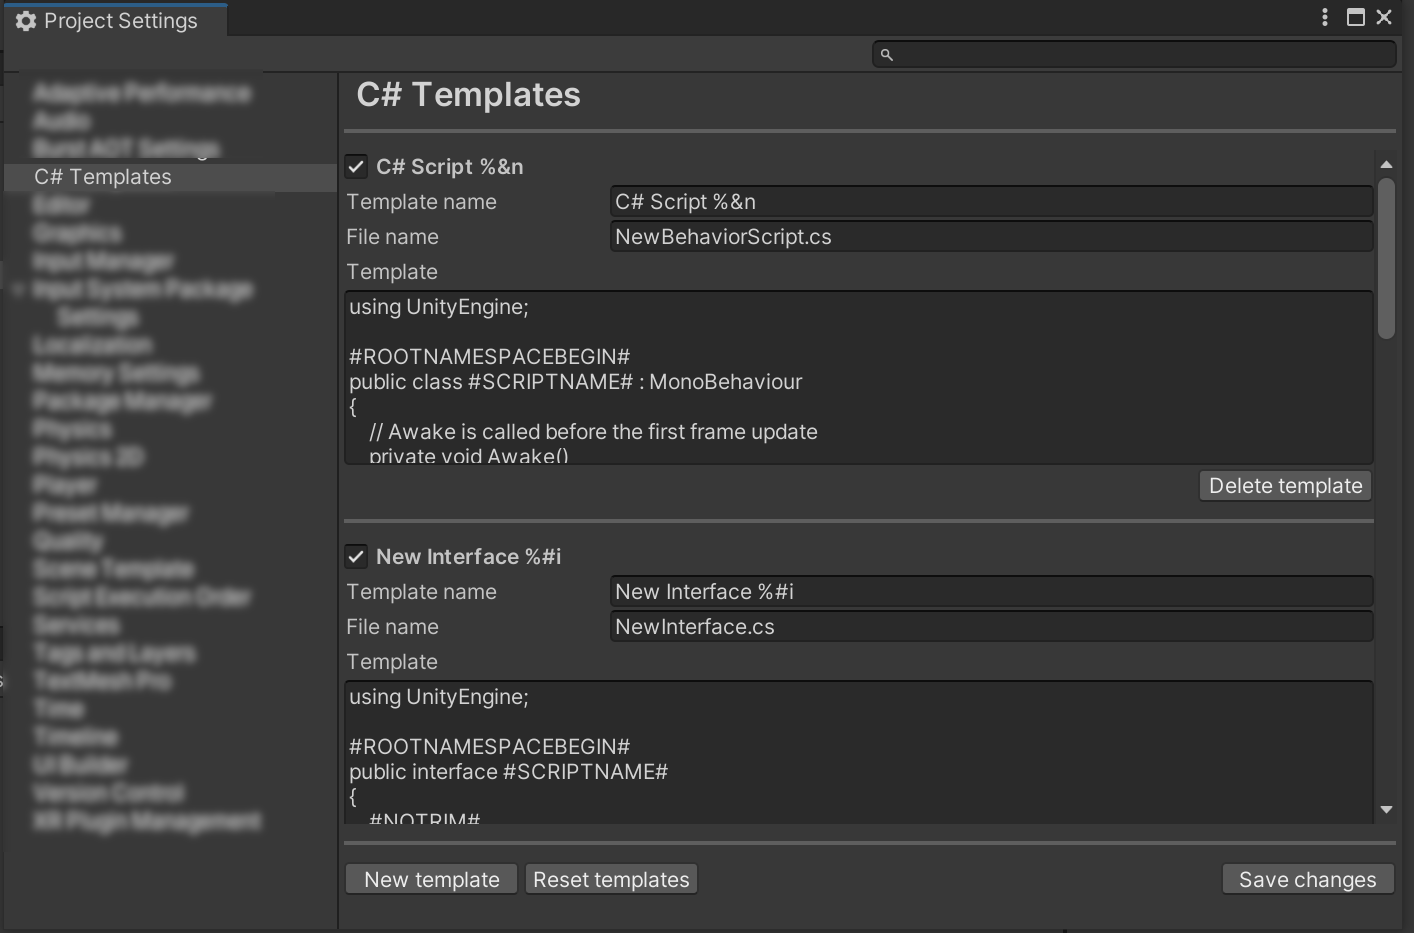
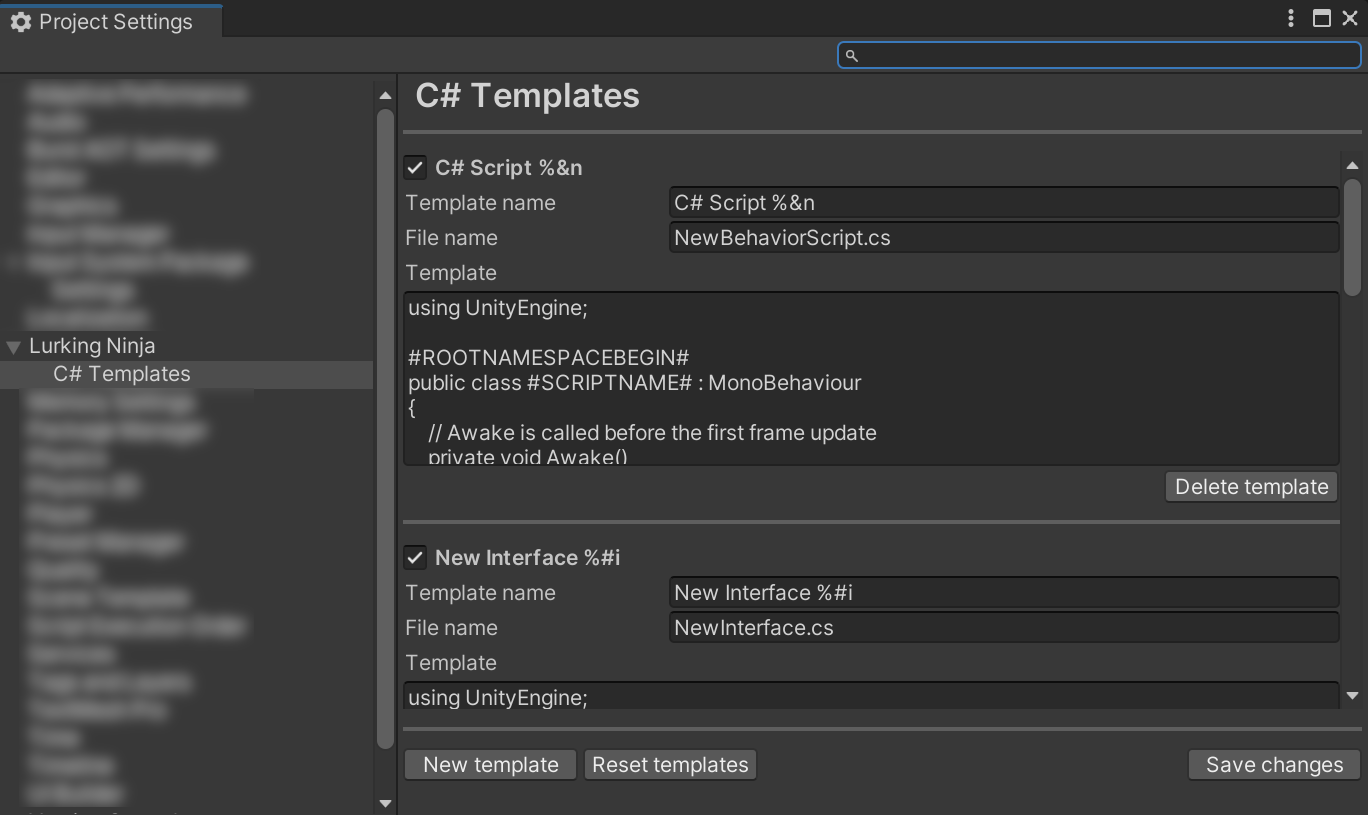
Moving settings under a common path

diff --git a/Packages/com.lurking-ninja.csharp-templates/Editor/CSharpTemplatesMenuGenerator.cs b/Packages/com.lurking-ninja.csharp-templates/Editor/CSharpTemplatesMenuGenerator.cs
@@ -17,18 +17,18 @@ namespace LurkingNinja.CSharpTemplates.Editor
     {
         private const string _TEMPLATE_FILE_SEARCH = "template t:textAsset";
         private static readonly string[] _TEMPLATE_PATH_TO_SEARCH =
-                { CSharpTemplatesSettings.C_SHARP_TEMPLATES_CONFIG_PATH };
+                { CSharpTemplatesSettings._C_SHARP_TEMPLATES_CONFIG_PATH };
         
         private static readonly StringBuilder _ONE_MENU = new();
         private static readonly StringBuilder _ALL_MENUS = new();
 
         private static string GenerateTemplateFilename(int index) =>
-            $"{CSharpTemplatesSettings.C_SHARP_TEMPLATES_CONFIG_PATH}/template{index}.cs.txt";
+            $"{CSharpTemplatesSettings._C_SHARP_TEMPLATES_CONFIG_PATH}/template{index}.cs.txt";
         
         private static string GenerateMenu(int index, CSharpTemplatesSettings.TemplateEntry entry, string path)
         {
             _ONE_MENU.Clear();
-            _ONE_MENU.AppendLine($"[MenuItem(\"{MenuItems.BASE_MENU_CS}{entry.templateName}\", false, {10013 + index})]");
+            _ONE_MENU.AppendLine($"[MenuItem(\"{MenuItems._BASE_MENU_CS}{entry.templateName}\", false, {10013 + index})]");
             _ONE_MENU.Append(
                 $"public static void CreateMenu{index}() => ProjectWindowUtil.CreateScriptAssetFromTemplateFile(");
             _ONE_MENU.AppendLine($"\"{path}\", \"{entry.defaultFilename}\");");
@@ -71,11 +71,11 @@ namespace LurkingNinja.CSharpTemplates.Editor
 
         internal static void GenerateMenuFile()
         {
-            if (!Directory.Exists(CSharpTemplatesSettings.C_SHARP_TEMPLATES_CONFIG_PATH))
-                Directory.CreateDirectory(CSharpTemplatesSettings.C_SHARP_TEMPLATES_CONFIG_PATH);
-            using var writer = new StreamWriter(CSharpTemplatesSettings.C_SHARP_TEMPLATES_MENU_FILE, false);
+            if (!Directory.Exists(CSharpTemplatesSettings._C_SHARP_TEMPLATES_CONFIG_PATH))
+                Directory.CreateDirectory(CSharpTemplatesSettings._C_SHARP_TEMPLATES_CONFIG_PATH);
+            using var writer = new StreamWriter(CSharpTemplatesSettings._C_SHARP_TEMPLATES_MENU_FILE, false);
             writer.WriteLine(GenerateAllMenus());
-            AssetDatabase.ImportAsset(CSharpTemplatesSettings.C_SHARP_TEMPLATES_MENU_FILE);
+            AssetDatabase.ImportAsset(CSharpTemplatesSettings._C_SHARP_TEMPLATES_MENU_FILE);
         }
     }
 }

diff --git a/Packages/com.lurking-ninja.csharp-templates/Editor/MenuItems.cs b/Packages/com.lurking-ninja.csharp-templates/Editor/MenuItems.cs
@@ -12,11 +12,11 @@ namespace LurkingNinja.CSharpTemplates.Editor
 	// ReSharper disable once PartialTypeWithSinglePart
 	public static partial class MenuItems
     {
-        internal const string BASE_MENU_CS = "Assets/Create C#/";
-        private const string _UNITY_CSHARP_MENU = BASE_MENU_CS + "Unity's C# Script %&o";
-		private const string _CREATE_FOLDER_MENU = BASE_MENU_CS + "Create Folder &#f";
+        internal const string _BASE_MENU_CS = "Assets/Create C#/";
+        private const string _UNITY_CSHARP_MENU = _BASE_MENU_CS + "Unity's C# Script %&o";
+		private const string _CREATE_FOLDER_MENU = _BASE_MENU_CS + "Create Folder &#f";
         
-		internal const string DEFAULT_BEHAVIOR_FILENAME = "NewBehaviorScript.cs";
+		internal const string _DEFAULT_BEHAVIOR_FILENAME = "NewBehaviorScript.cs";
 
 		private static readonly string _UNITY_CS_TEMPLATE_PATH = EditorApplication.applicationContentsPath
 			+ "/Resources/ScriptTemplates/81-C# Script-NewBehaviourScript.cs.txt";
@@ -26,6 +26,6 @@ namespace LurkingNinja.CSharpTemplates.Editor
 		
 		[MenuItem(_UNITY_CSHARP_MENU, false, 10002)]
 		public static void CreateUnityCsMenu() => ProjectWindowUtil.CreateScriptAssetFromTemplateFile(
-			_UNITY_CS_TEMPLATE_PATH, DEFAULT_BEHAVIOR_FILENAME);
+			_UNITY_CS_TEMPLATE_PATH, _DEFAULT_BEHAVIOR_FILENAME);
     }
 }

diff --git a/Packages/com.lurking-ninja.csharp-templates/Editor/CSharpTemplatesSettings.cs b/Packages/com.lurking-ninja.csharp-templates/Editor/CSharpTemplatesSettings.cs
@@ -15,9 +15,9 @@ namespace LurkingNinja.CSharpTemplates.Editor
     [FilePath("ProjectSettings/CSharpTemplatesSettings.asset", FilePathAttribute.Location.ProjectFolder)]
     public class CSharpTemplatesSettings : ScriptableSingleton<CSharpTemplatesSettings>
     {
-        internal const string C_SHARP_TEMPLATES_CONFIG_PATH = "Assets/Plugins/LurkingNinja/Editor";
-        internal const string C_SHARP_TEMPLATES_MENU_FILE =
-                C_SHARP_TEMPLATES_CONFIG_PATH + "/MenuItems.cs";
+        internal const string _C_SHARP_TEMPLATES_CONFIG_PATH = "Assets/Plugins/LurkingNinja/Editor";
+        internal const string _C_SHARP_TEMPLATES_MENU_FILE =
+                _C_SHARP_TEMPLATES_CONFIG_PATH + "/MenuItems.cs";
         
         [Serializable]
         public struct TemplateEntry
@@ -43,7 +43,7 @@ namespace LurkingNinja.CSharpTemplates.Editor
             {
                 enabled = true,
                 templateName = "C# Script %&n",
-                defaultFilename = MenuItems.DEFAULT_BEHAVIOR_FILENAME,
+                defaultFilename = MenuItems._DEFAULT_BEHAVIOR_FILENAME,
                 template = @"using UnityEngine;
 
 #ROOTNAMESPACEBEGIN#

diff --git a/Packages/com.lurking-ninja.csharp-templates/Editor/CSharpTemplatesSettingsProvider.cs b/Packages/com.lurking-ninja.csharp-templates/Editor/CSharpTemplatesSettingsProvider.cs
@@ -13,7 +13,7 @@ namespace LurkingNinja.CSharpTemplates.Editor
 
     public class CSharpTemplatesSettingsProvider : SettingsProvider
     {
-        private const string _SETTINGS_PATH = "Project/C# Templates";
+        private const string _SETTINGS_PATH = "Project/Lurking Ninja/C# Templates";
 
         private SerializedObject _serializedSettings;
 

diff --git a/README.md b/README.md
@@ -18,7 +18,7 @@ https://github.com/LurkingNinja/com.lurking-ninja.csharp-templates.git?path=Pack
 3. Open your project and check if it is imported properly.
 
 ## Usage
-Open the ```Project Settings/C# Templates``` tab and edit the templates as needed. The template name is used
+Open the ```Project Settings/Lurking Ninja/C# Templates``` tab and edit the templates as needed. The template name is used
 as the name of the menu as well in the context menu. You can add [shortcut codes](https://docs.unity3d.com/ScriptReference/MenuItem.html) to the name so Unity will register
 those to this function. 
 ![Open settings](docs/open_project_settings.png)
